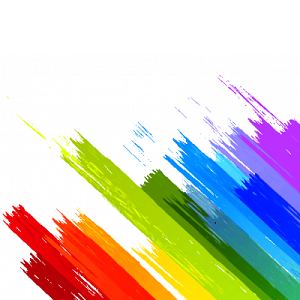
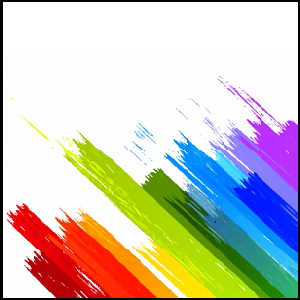
stroke

diff --git a/main.css b/main.css
@@ -23,8 +23,8 @@ header {
 
 }
 .flex-container div {
-	width: 400px;
-	height: 400px;	
+	width: 300px;
+	height: 300px;	
 	justify-content: flex-start;
 }
 .flex-container img {
